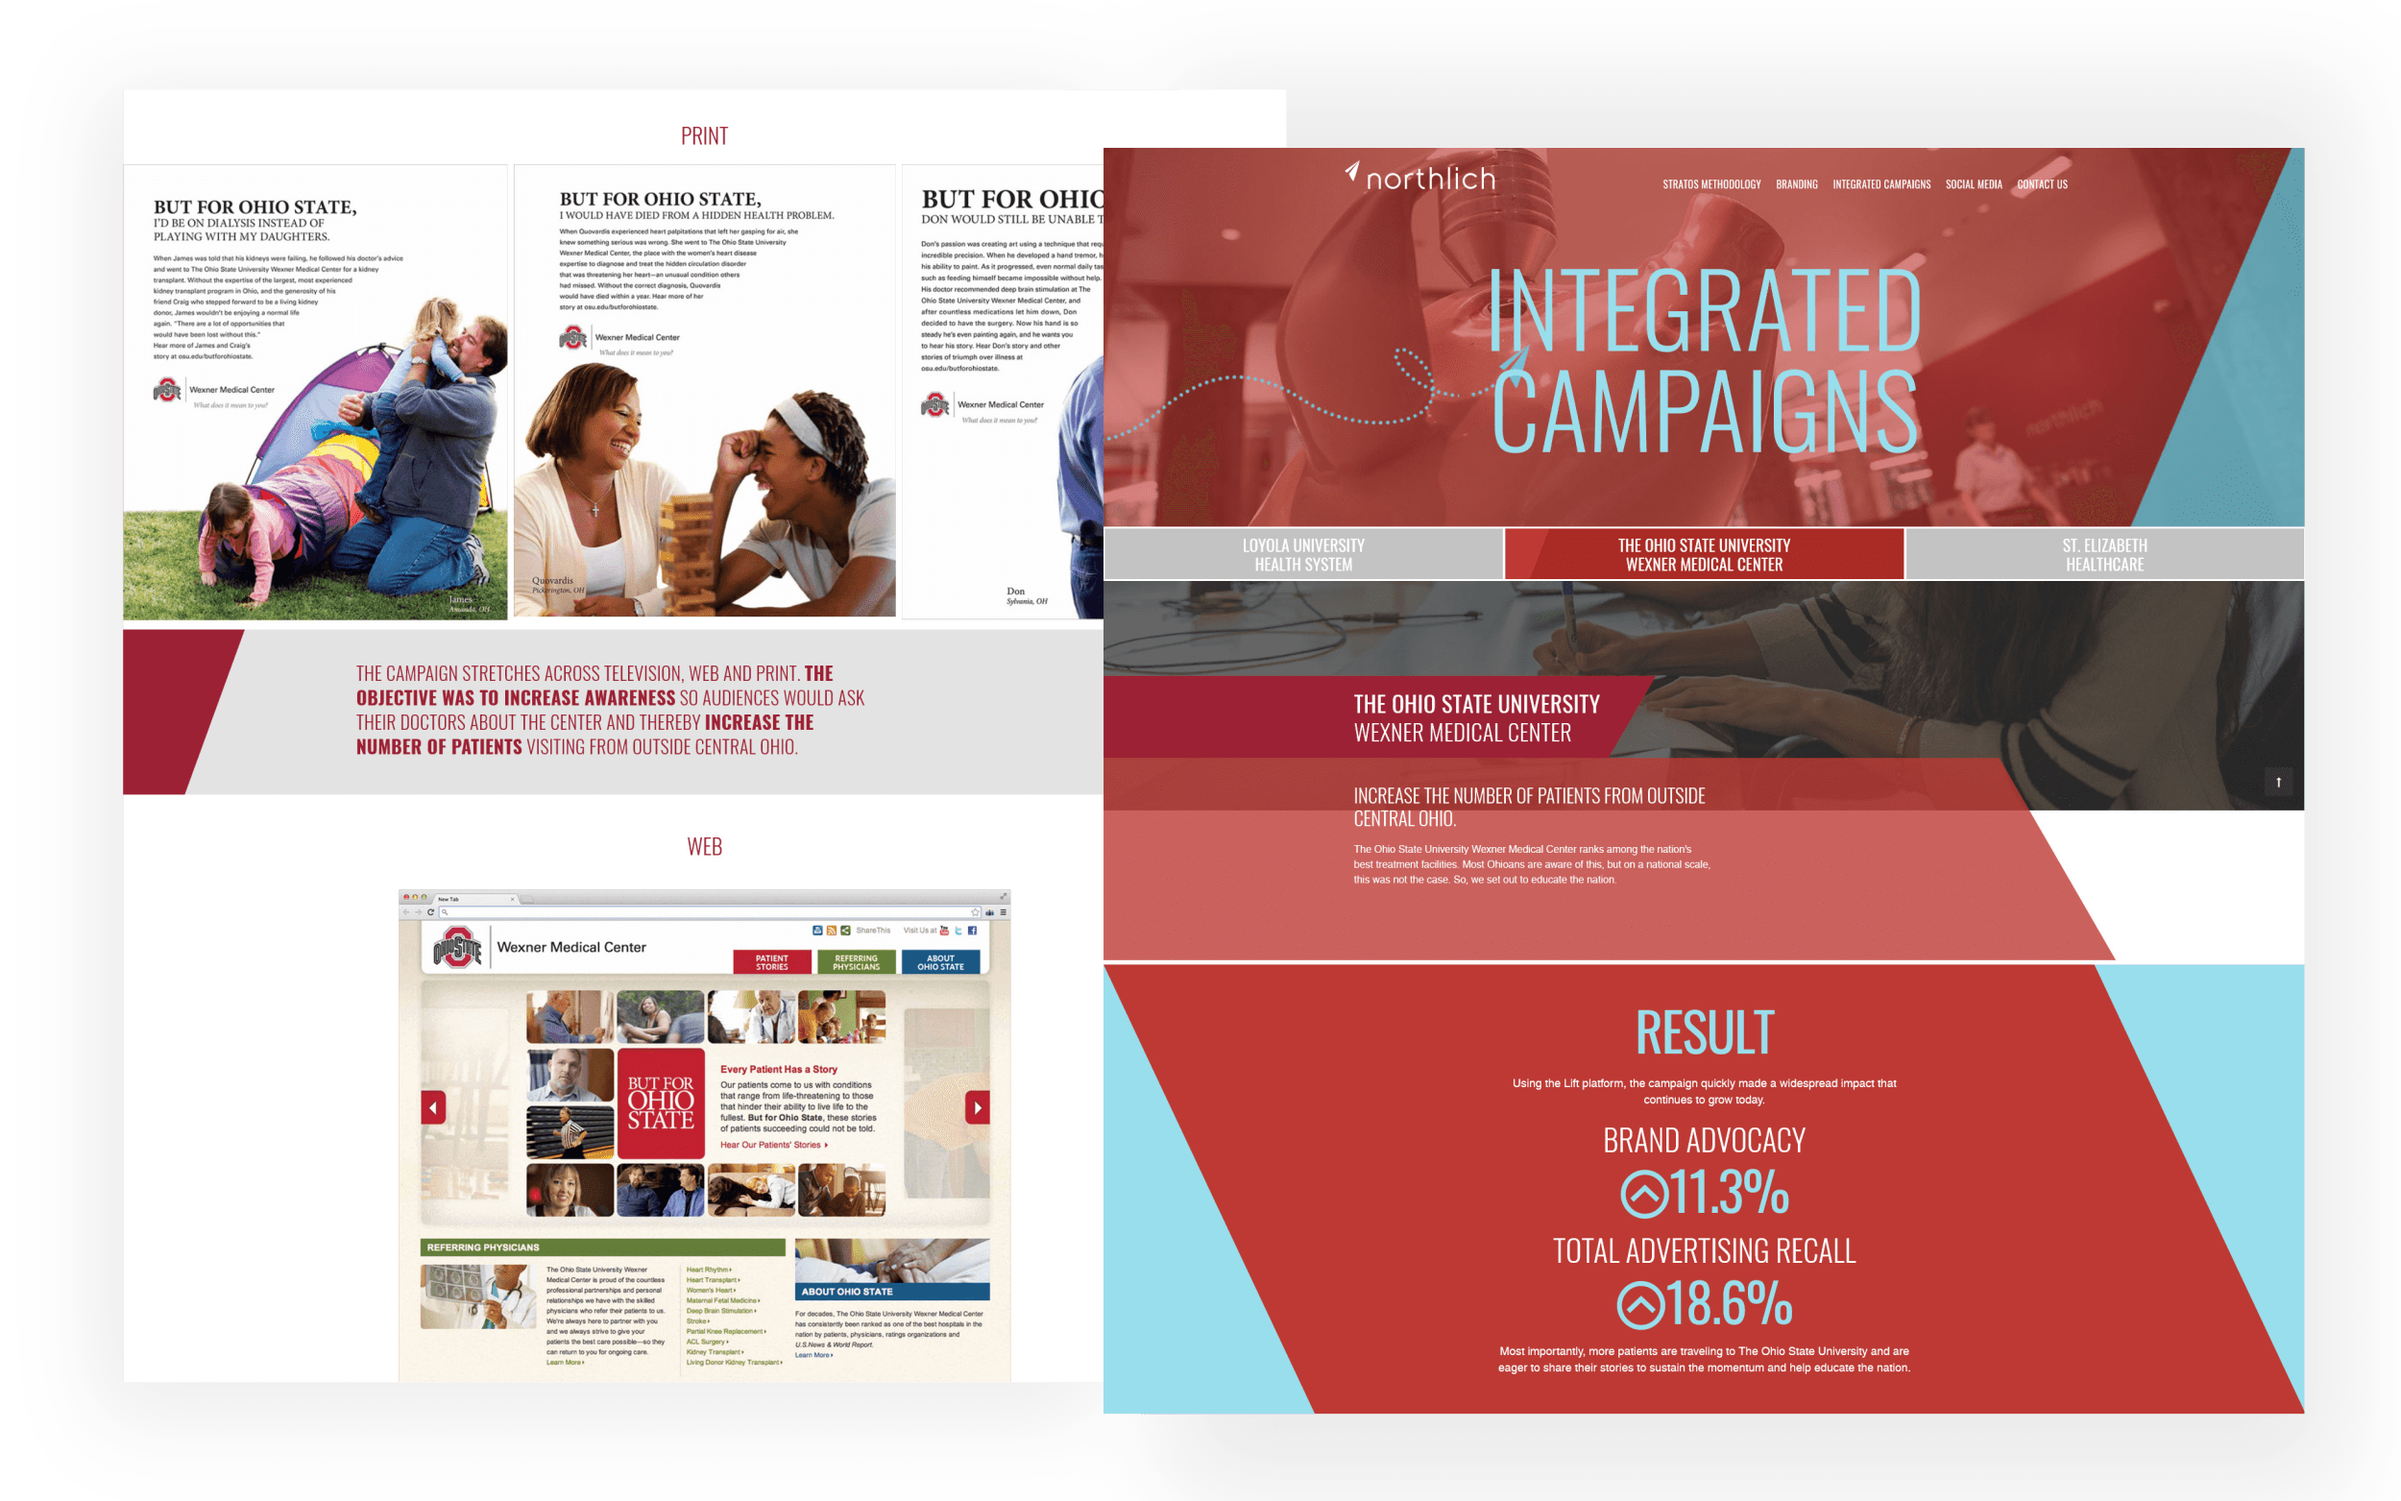
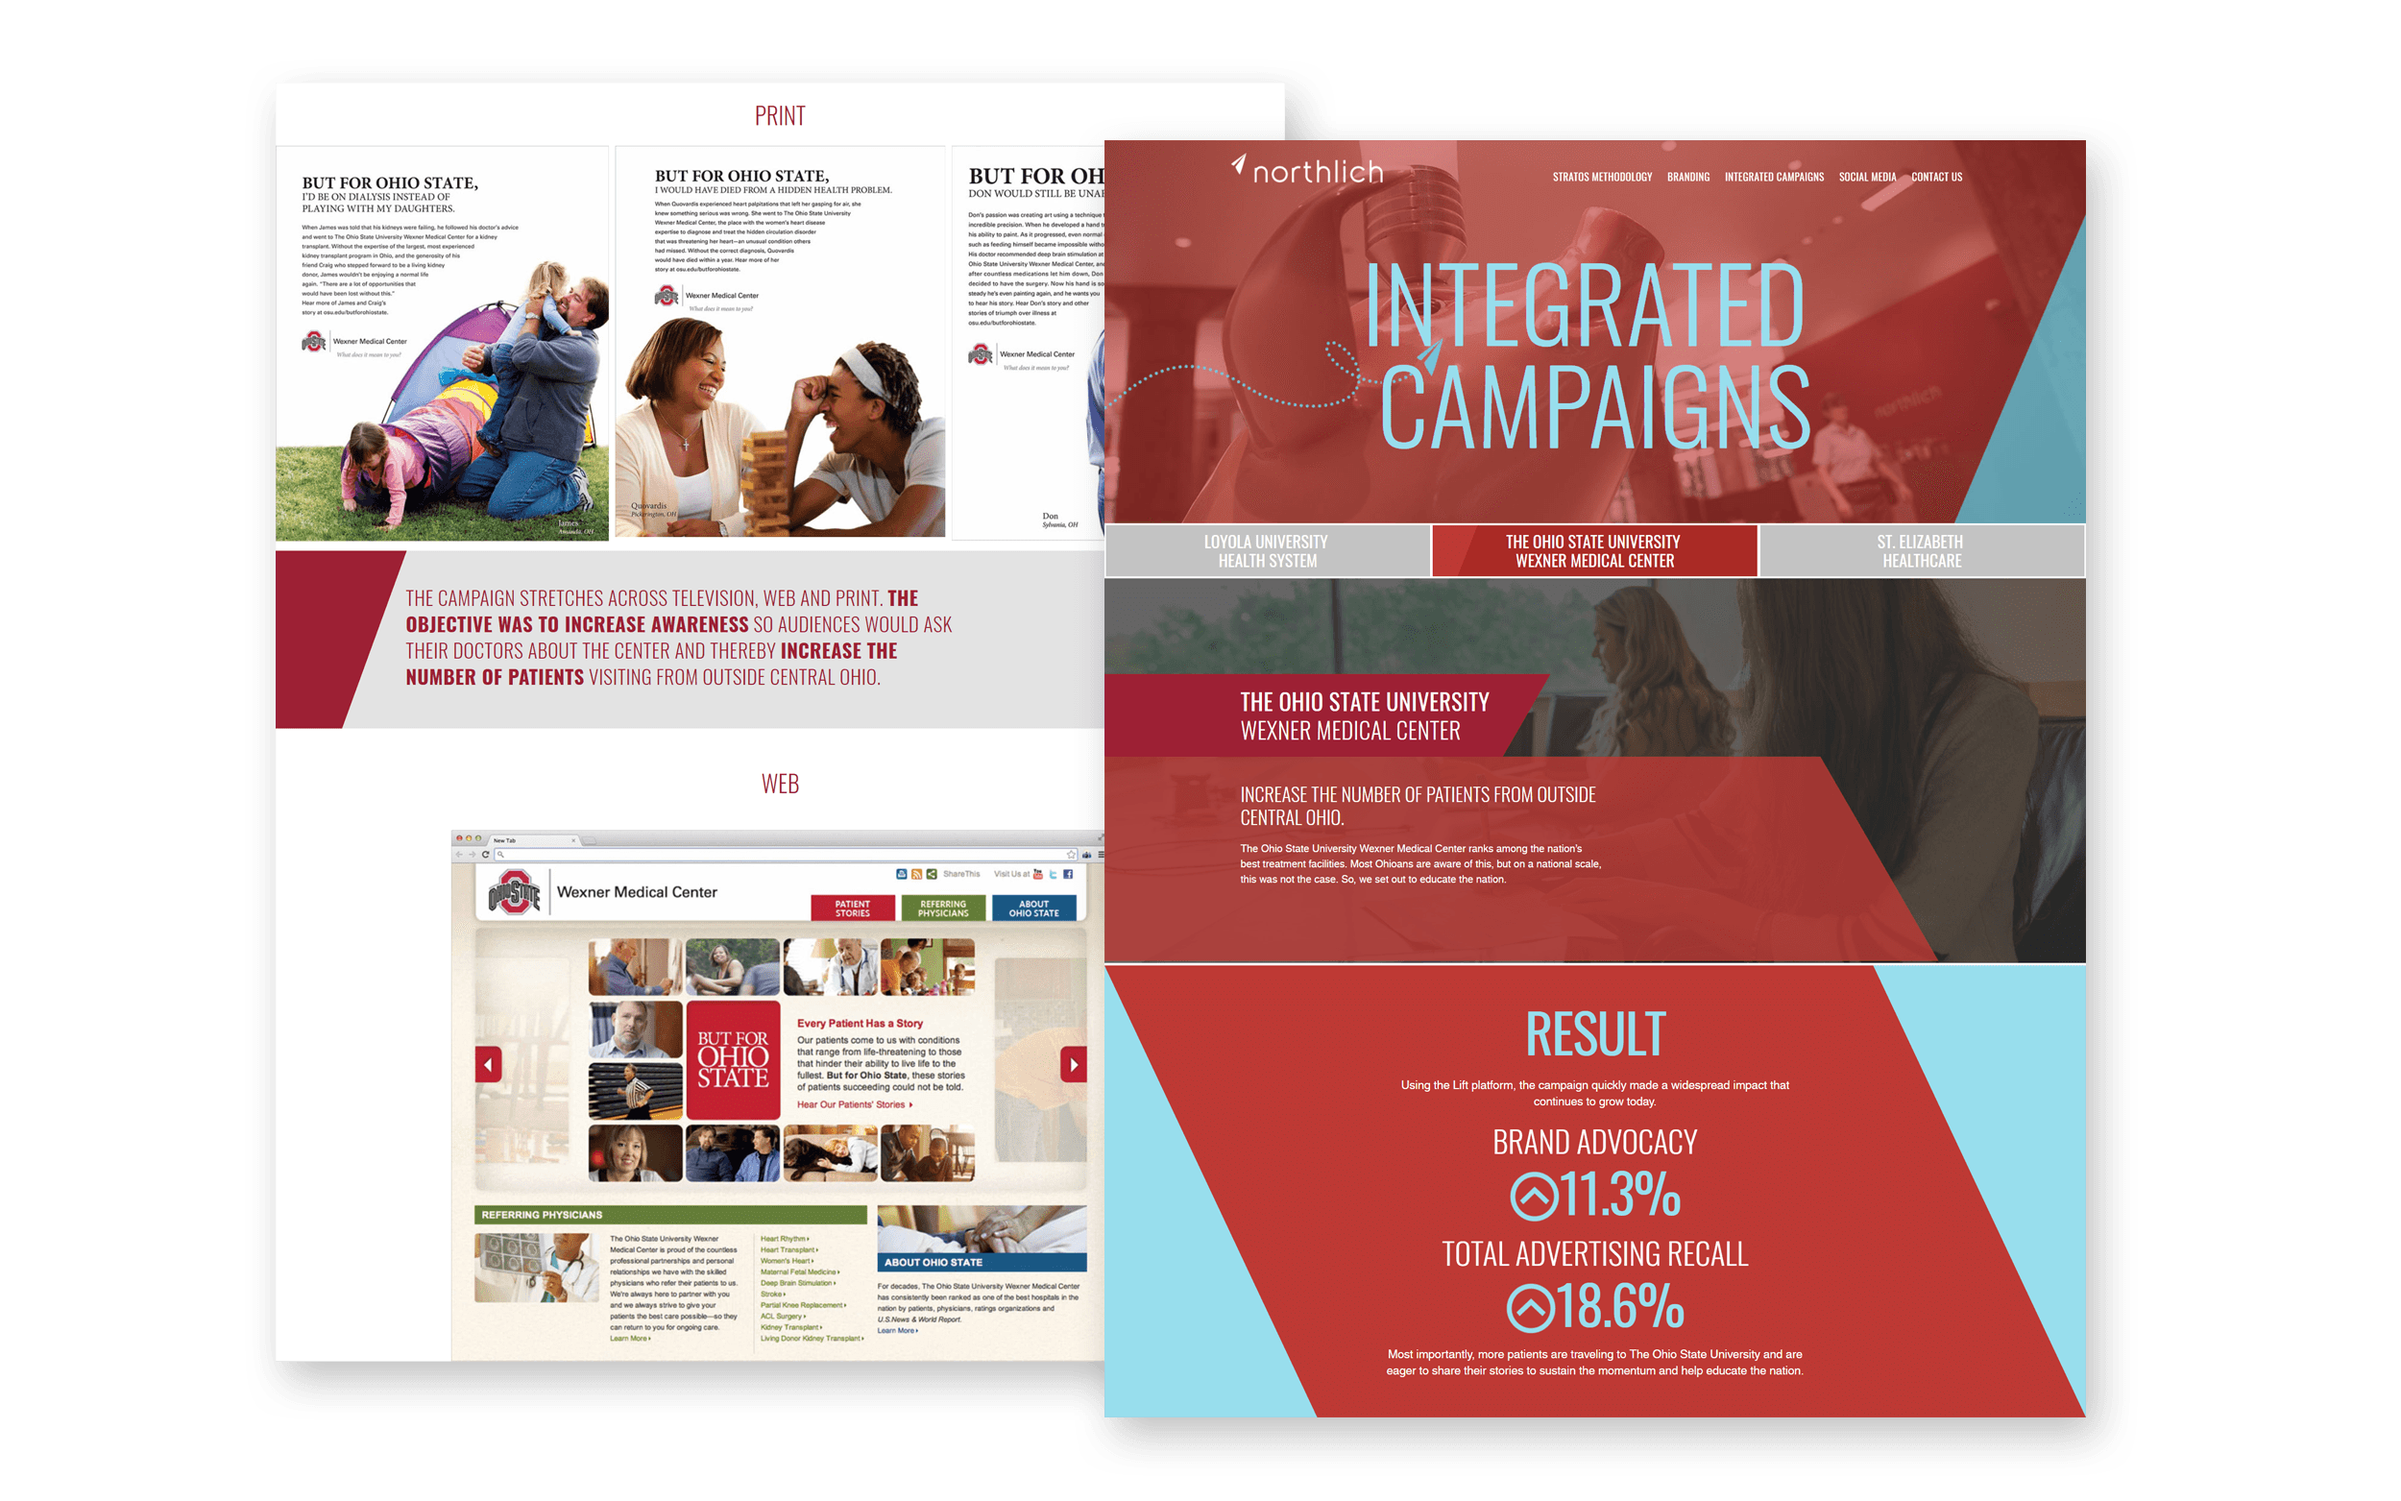
fixed a couple images, and removed blog from menu

diff --git a/index.html b/index.html
@@ -38,7 +38,7 @@
                 <a href="javascript:void(0)" class="closebtn" onclick="closeNav()"><img src="img/close.svg" class="closebtn-img" alt="close_btn"></a>
                 <div class="sidenav-links">
                     <a href="./index.html"><h4>Home</h4></a>
-                    <a href="./blog/"><h4>Blog</h4></a>
+                    <!-- <a href="./blog/"><h4>Blog</h4></a> -->
                     <a href="./error.html"><h4>About</h4></a>
                 </div>
             </div>
@@ -82,7 +82,7 @@
                     </div>
                     <div class="links">
                         <ul class="list">
-                            <li><a href="https://github.com/SrgSprinkles/portfolio" target="_blank"><p>GitHub</p></a></li>
+                            <li><a href="https://github.com/SrgSprinkles/" target="_blank"><p>GitHub</p></a></li>
                             <li><a href="https://linkedin.com/in/evan-pringle/" target="_blank"><p>LinkedIn</p></a></li>
                             <li><a href="https://twitter.com/epringle365" target="_blank"><p>Twitter</p></a></li>
                             <li><a href="https://instagram.com/epringle365" target="_blank"><p>Instagram</p></a></li>

diff --git a/cyberatuc.html b/cyberatuc.html
@@ -31,7 +31,7 @@
 	
 	<div class="g-container">
 		<div class="showcase_close-btn">
-			<a href="./index.html"><p>Close</p></a>
+			<a href="/"><p>Close</p></a>
 		</div>
 		
 		<section class="works-image-main padding-t-100">

diff --git a/engelandmartin.html b/engelandmartin.html
@@ -31,7 +31,7 @@
 	
 	<div class="g-container">
 		<div class="showcase_close-btn">
-			<a href="./index.html"><p>Close</p></a>
+			<a href="/"><p>Close</p></a>
 		</div>
 		
 		<section class="works-image-main padding-t-100">

diff --git a/northlich.html b/northlich.html
@@ -31,7 +31,7 @@
 	
 	<div class="g-container">
 		<div class="showcase_close-btn">
-			<a href="./index.html"><p>Close</p></a>
+			<a href="/"><p>Close</p></a>
 		</div>
 		
 		<section class="works-image-main padding-t-100">
